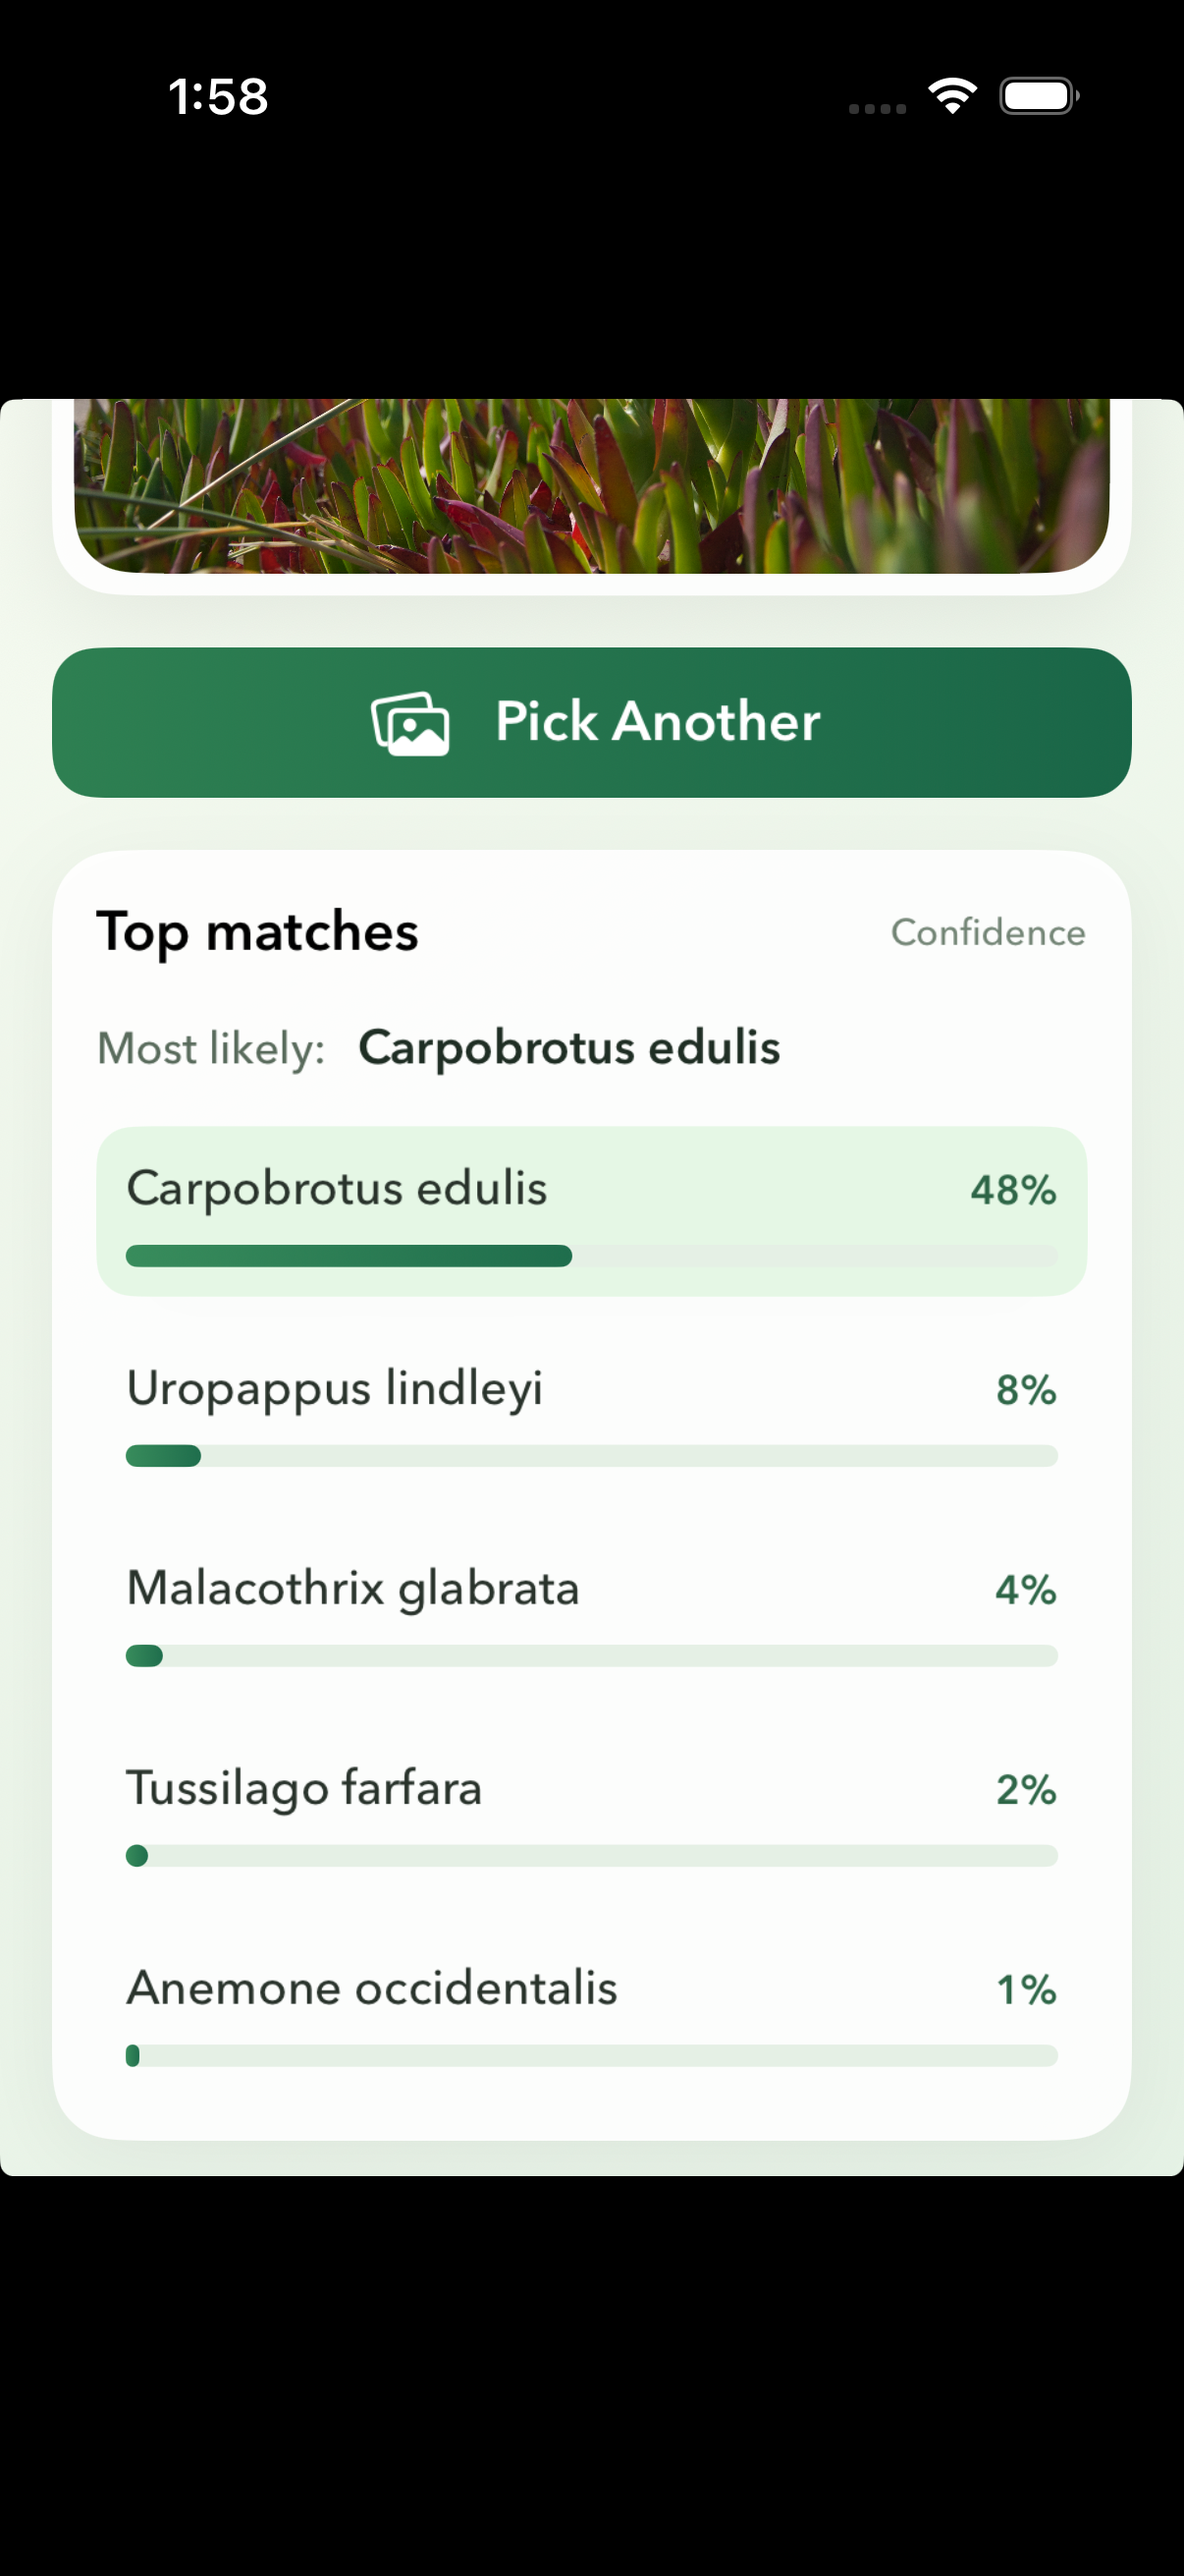
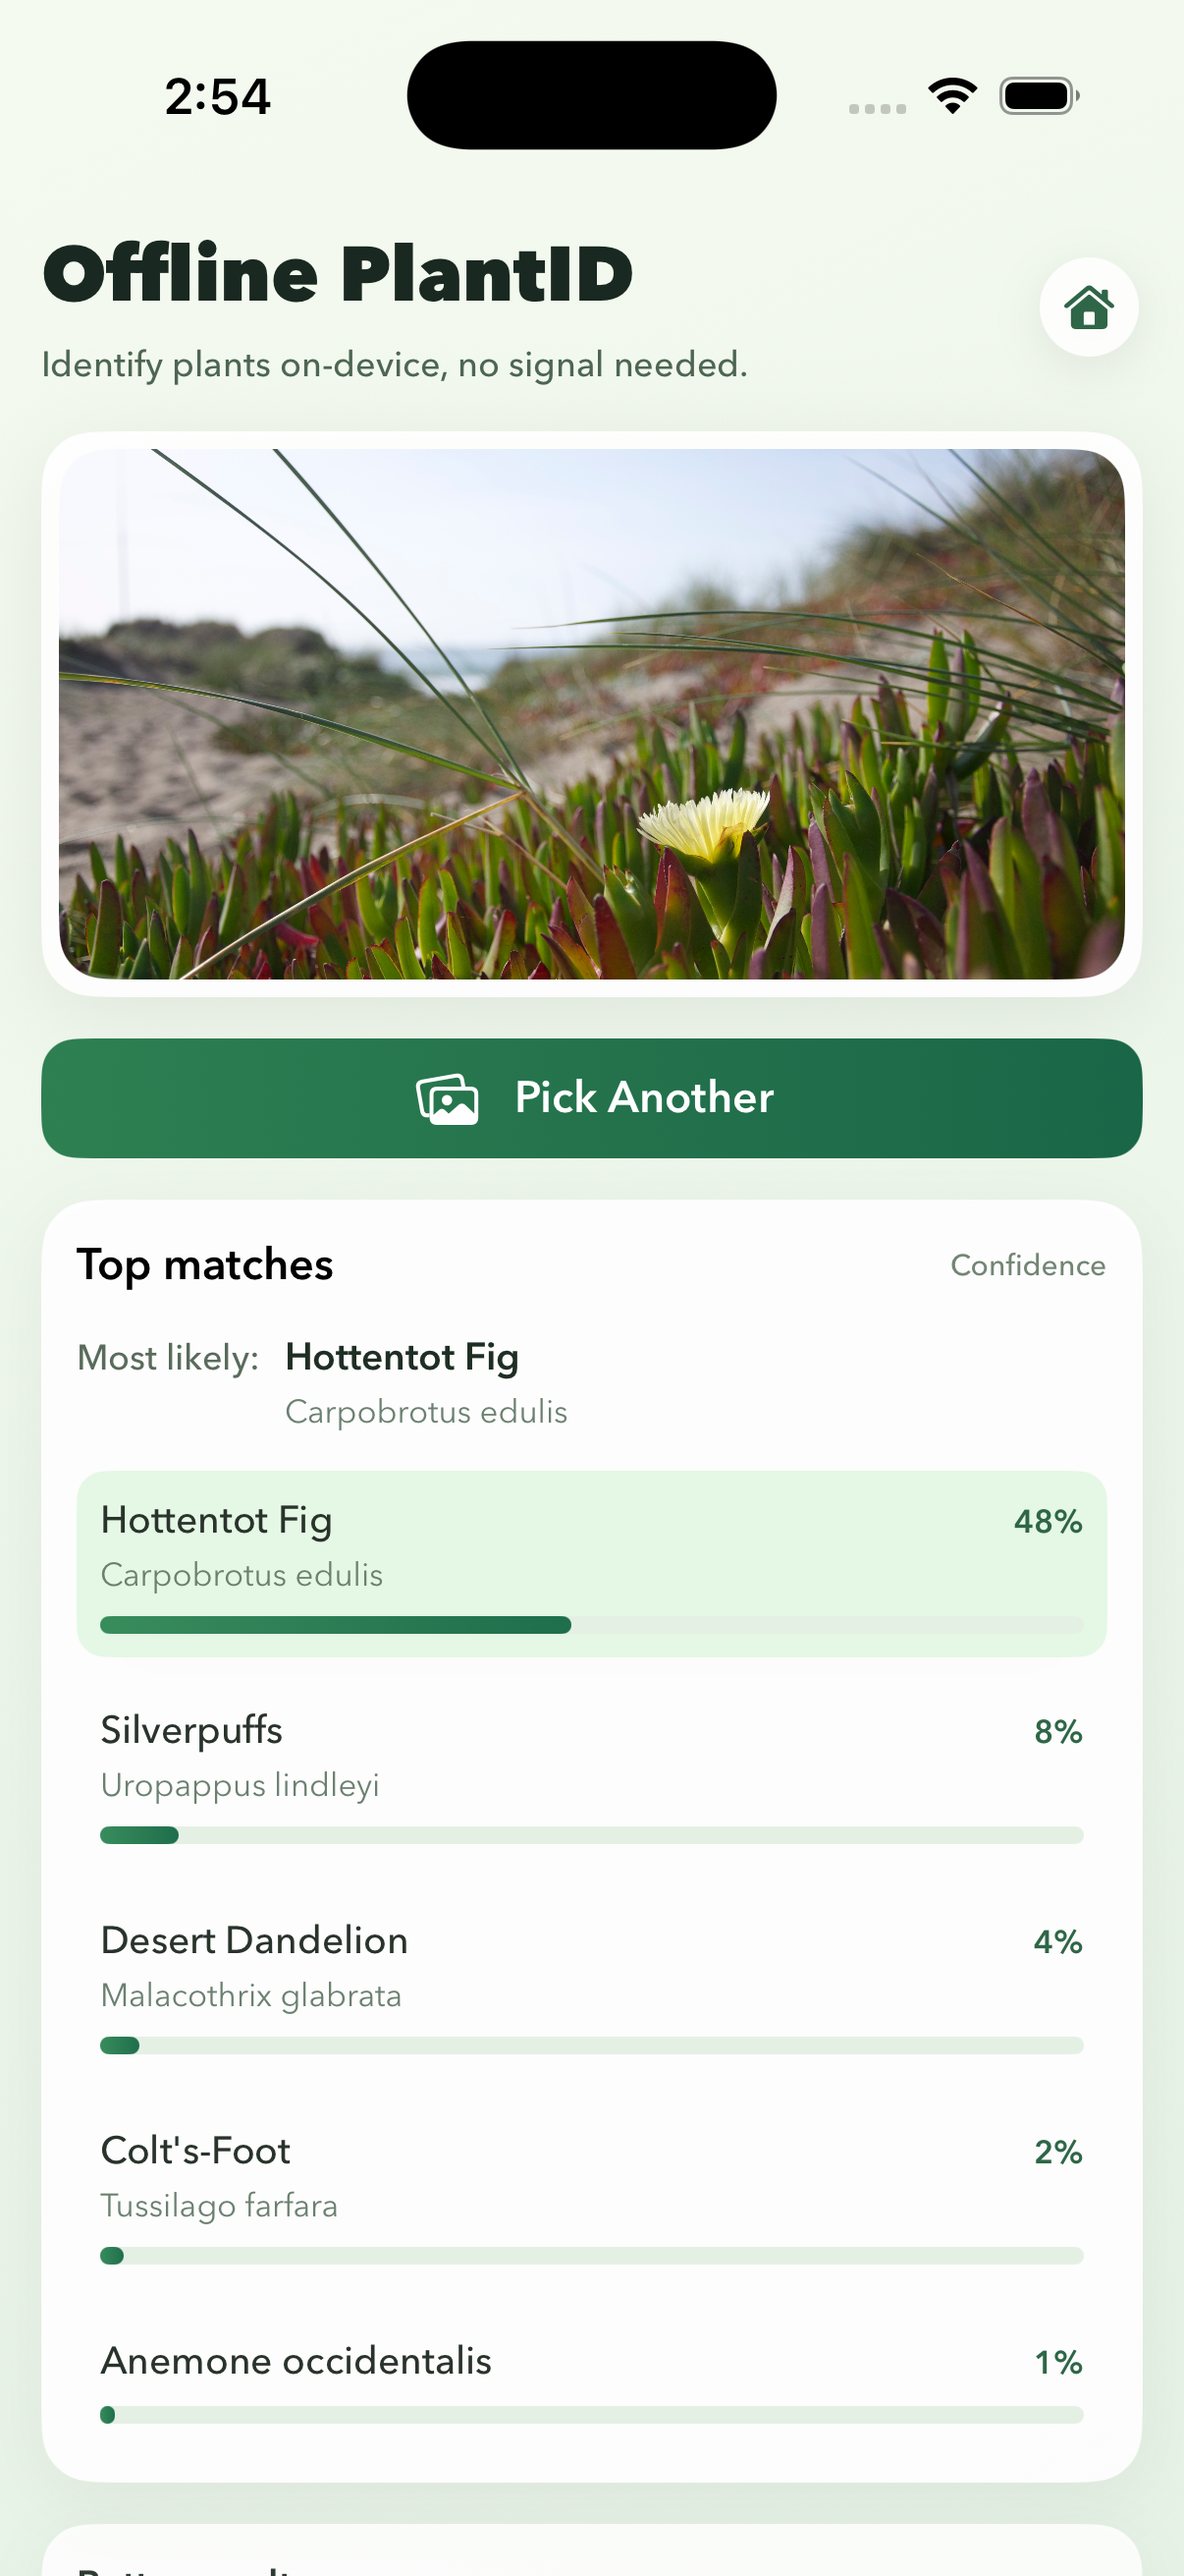
Update readme

diff --git a/Sources/ModelDataHandler.swift b/Sources/ModelDataHandler.swift
@@ -9,11 +9,25 @@ struct Prediction: Identifiable {
     let confidence: Float
 
     var displayName: String {
-        commonName ?? scientificName
+        if let commonName {
+            return Prediction.normalizedCommonName(commonName)
+        }
+        return scientificName
     }
 
     var secondaryName: String? {
         commonName == nil ? nil : scientificName
+    }
+
+    private static func normalizedCommonName(_ name: String) -> String {
+        let trimmed = name.trimmingCharacters(in: .whitespacesAndNewlines)
+        guard !trimmed.isEmpty else { return trimmed }
+        let hasUpper = trimmed.rangeOfCharacter(from: .uppercaseLetters) != nil
+        let hasLower = trimmed.rangeOfCharacter(from: .lowercaseLetters) != nil
+        if hasUpper && hasLower {
+            return trimmed
+        }
+        return trimmed.lowercased().localizedCapitalized
     }
 }
 
